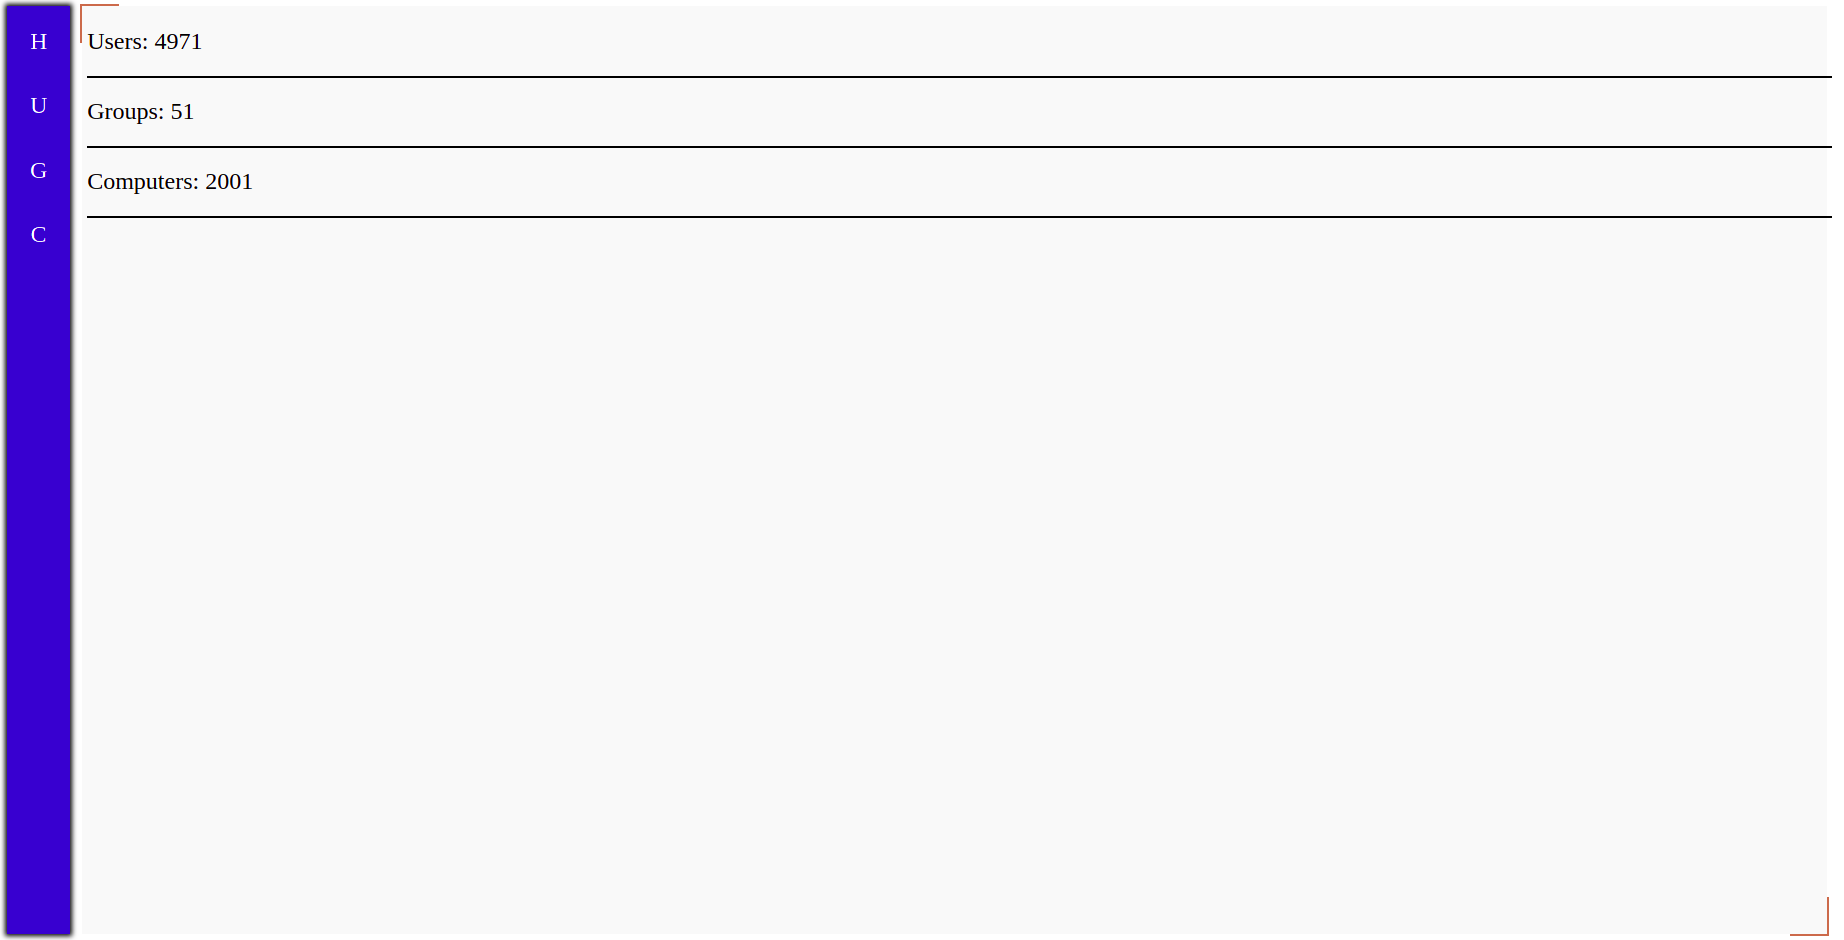
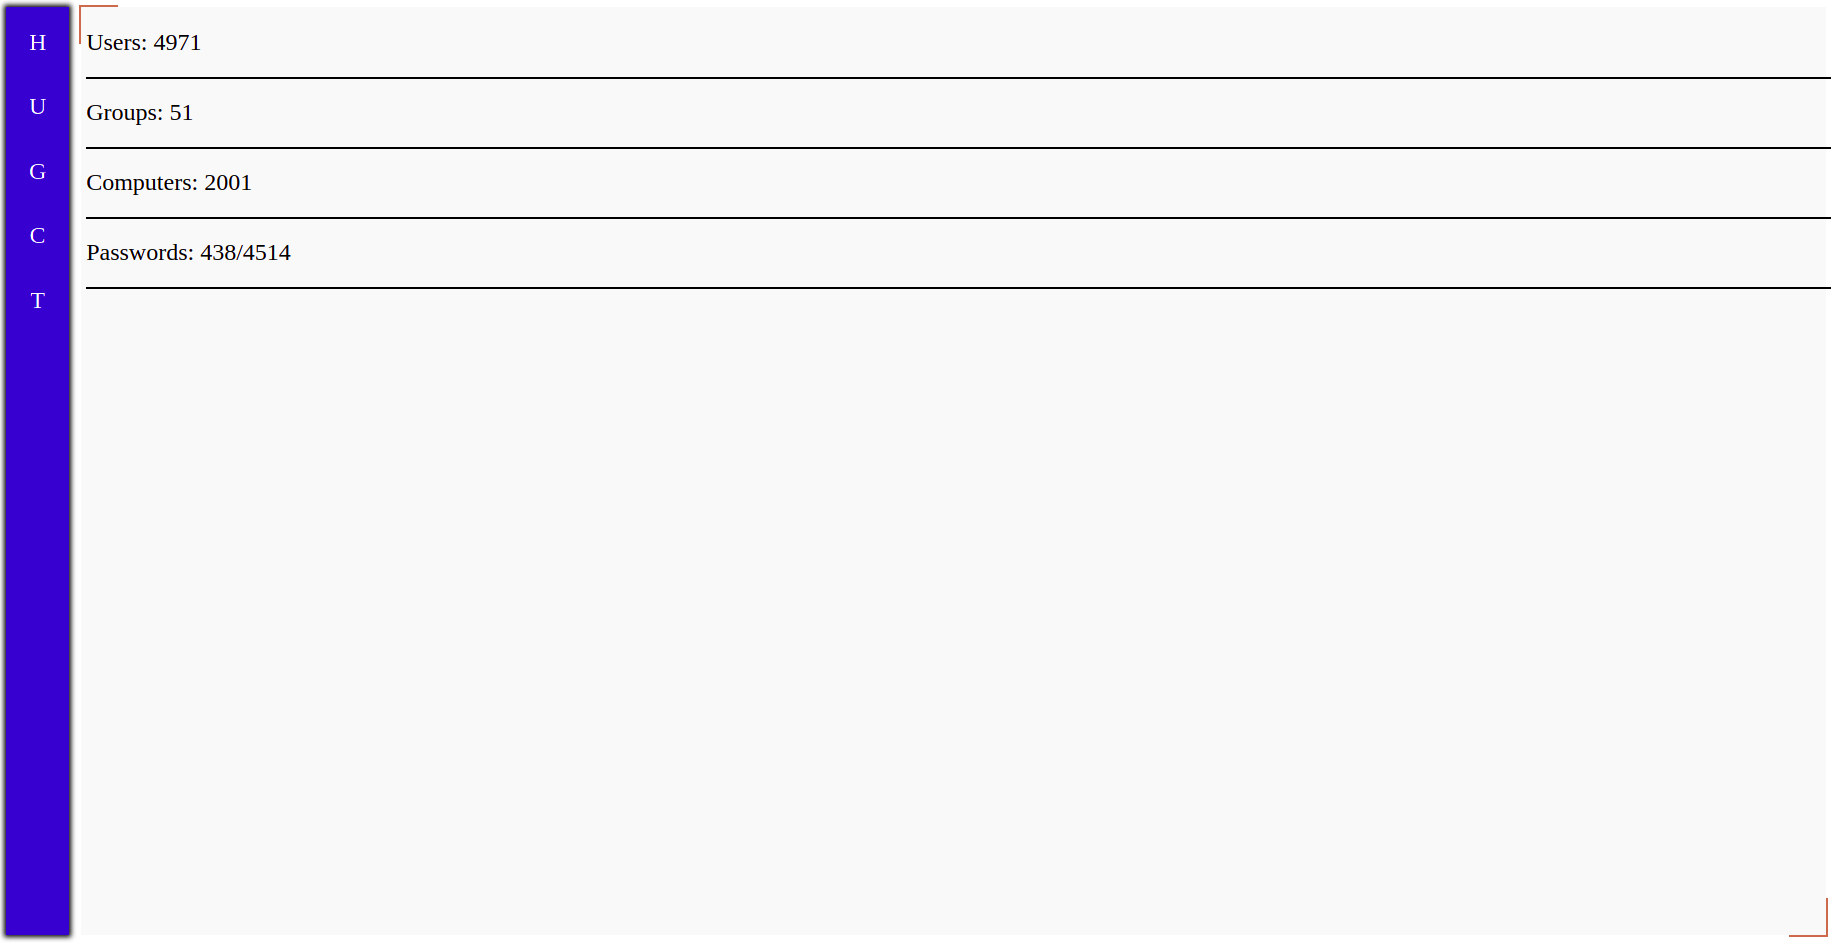
Tools page appended (ability to update the hash table)

diff --git a/ADContentViewer.py b/ADContentViewer.py
@@ -23,7 +23,8 @@ MainPageStart = """<html><head>
 <input type="submit" name="action" value="H" style=" background-color: Transparent;background-repeat:no-repeat;border: none;cursor:pointer;overflow: hidden;outline:none;height: 7%;width: 100%;color: white;font-size: x-large;font-family: cursive;font-style: normal;"/>
 <input type="submit" name="action" value="U" style=" background-color: Transparent;background-repeat:no-repeat;border: none;cursor:pointer;overflow: hidden;outline:none;height: 7%;width: 100%;color: white;font-size: x-large;font-family: cursive;font-style: normal;"/>
 <input type="submit" name="action" value="G" style=" background-color: Transparent;background-repeat:no-repeat;border: none;cursor:pointer;overflow: hidden;outline:none;height: 7%;width: 100%;color: white;font-size: x-large;font-family: cursive;font-style: normal;"/>
-<input type="submit" name="action" value="C" style=" background-color: Transparent;background-repeat:no-repeat;border: none;cursor:pointer;overflow: hidden;outline:none;height: 7%;width: 100%;color: white;font-size: x-large;font-family: cursive;font-style: normal;"	/>
+<input type="submit" name="action" value="C" style=" background-color: Transparent;background-repeat:no-repeat;border: none;cursor:pointer;overflow: hidden;outline:none;height: 7%;width: 100%;color: white;font-size: x-large;font-family: cursive;font-style: normal;"/>
+<input type="submit" name="action" value="T" style=" background-color: Transparent;background-repeat:no-repeat;border: none;cursor:pointer;overflow: hidden;outline:none;height: 7%;width: 100%;color: white;font-size: x-large;font-family: cursive;font-style: normal;"/>
 </form>
 </div >
 <div style="float: left;
@@ -82,6 +83,33 @@ SearchPanel = """method="get" style="margin: 15px;">
     padding: .8em 1em calc(.8em + 3px);
     border-radius: 21px;"/></form>"""
 
+UpdateHashPanel = """<div style="width: fit-content;
+    border: 2px solid mediumblue;
+    margin: 10px;"><form action="tools" enctype="multipart/form-data" method="post">
+<label for="file-upload" style="    border: 2px solid black;
+    width: 200px;
+    height: 30px;
+    border-radius: 21px;
+    outline: none;
+    text-align: center;
+    display: block;
+    margin: 10px;
+    padding-top: 10;">Select hash file
+</label>
+<input id="file-upload" type="file" name="content" style="display:none;">
+<input type="hidden" name="action" value="update_hash"/>
+<input type="submit" value="Update" style="    border: 2px solid black;
+    width: 100px;
+    height: 5%;
+    margin-left: 55px;
+    color: black;
+    outline: none;
+    background-color: white;
+    text-decoration: none;
+    padding: .8em 1em calc(.8em + 3px);
+    border-radius: 21px;
+}">
+</form></div>"""
 UserAccountControl = {"SCRIPT":1,
 "ACCOUNTDISABLE":2,
 "HOMEDIR_REQUIRED":8,
@@ -115,9 +143,52 @@ class Web(tornado.web.RequestHandler):
 			self.ObjDb = sqlite3.connect(Settings["db_name"])
 			self.ObjCursor = self.ObjDb.cursor()
 
+	def post(self):
+		if(self.request.uri[:6] == "/tools"):
+			WritePage = MainPageStart
+			AllInputArg = self.request.arguments
+			if("action" in AllInputArg.keys()):
+				if("update_hash" == self.get_argument("action")):
+					HashUpdateFiles = self.request.files
+					Out = {"update":0,"add":0}
+					if("content" in HashUpdateFiles.keys()):
+						try:
+							HashStr = HashUpdateFiles["content"][0]["body"].decode("utf-8").replace("\n"," ")
+							PwdData = re.findall(r"([^: ]*):[^:]*:([^:]*):([^:]*):\S*:\S*:(\S*)",HashStr)
+						except:
+							PwdData = re.findall(r"([^\n\r:]*):[^:]*:([^:]*):([^:]*):\S*:\S*:(\S*)",HashUpdateFiles["content"][0]["body"].decode("UTF-16LE")[1:])
+						if(len(PwdData) == 0):
+							try:
+								HashStr = HashUpdateFiles["content"][0]["body"].decode("utf-8").replace("\n"," ")
+								HashcatFormat = re.findall(r"([^: ]*):(\S*)",HashStr)
+							except:
+								HashcatFormat = re.findall(r"([^\n\r:]*):(\S*)",HashUpdateFiles["content"][0]["body"].decode("UTF-16LE")[1:])
+							if(len(HashcatFormat) != 0):
+								for CurretHash in HashcatFormat:
+									self.ObjCursor.execute("""UPDATE pwd SET pass='{1}' WHERE NT='{0}'""".format(CurretHash[0],CurretHash[1]))
+								self.ObjDb.commit()
+								WritePage = WritePage + """<div style="margin:10px;">Filename: {0}<br>Format: NT:pass<br>{1} hash updated<br><div>""".format(HashUpdateFiles["content"][0]["filename"],len(HashcatFormat))
+						else:
+							for CurretPwd in PwdData:
+								SelectPwd = self.ObjCursor.execute("""SELECT * FROM pwd WHERE sAMAccountName='{0}'""".format(CurretPwd[0]))
+								CheckPwd = SelectPwd.fetchone()
+								if(CheckPwd == None):
+									self.ObjCursor.execute("""INSERT INTO pwd VALUES ('{0}','{1}','{2}','{3}')""".format(CurretPwd[0],CurretPwd[1],CurretPwd[2],CurretPwd[3]))
+									Out["add"] += 1
+								else:
+									self.ObjCursor.execute("""UPDATE pwd SET LM='{1}',NT='{2}',pass='{3}' WHERE sAMAccountName='{0}'""".format(CurretPwd[0],CurretPwd[1],CurretPwd[2],CurretPwd[3]))
+									Out["update"] += 1
+							self.ObjDb.commit()
+							WritePage = WritePage + """<div style="margin:10px;">Filename: {0}<br>Format: pwd<br>{1} hash added<br>{2} hash updated<br><div>""".format(HashUpdateFiles["content"][0]["filename"],Out["add"],Out["update"])
+			self.write(WritePage+MainPageEnd)
+
 	def get(self):
 		if(self.request.uri == "/"):
 			self.redirect("/home")
+		elif(self.request.uri[:6] == "/tools"):
+			WritePage = MainPageStart
+			WritePage = WritePage + UpdateHashPanel
+			self.write(WritePage+"""</div>"""+MainPageEnd)
 		elif(self.request.uri[:6] == "/users" or self.request.uri[:10] == "/computers" or self.request.uri[:7] == "/groups"):
 			AllInputArg = self.request.arguments
 			if(self.request.uri[:6] == "/users"):
@@ -252,6 +323,11 @@ class Web(tornado.web.RequestHandler):
 			CountPC = self.ObjCursor.execute("""SELECT count(*) FROM computers""")
 			CountPCValue = CountUser.fetchone()
 			WritePage = WritePage + HomePage + "Computers:    {0}</div>".format(CountPCValue[0])
+			CountHash = self.ObjCursor.execute("""SELECT count(*) FROM pwd""")
+			CountHashValue = CountHash.fetchone()
+			CountPass = self.ObjCursor.execute("""SELECT count(*) FROM pwd WHERE pass!=''""")
+			CountPassValue = CountHash.fetchone()
+			WritePage = WritePage + HomePage + "Passwords:    {0}/{1}</div>".format(CountPassValue[0],CountHashValue[0])
 			self.write(WritePage+MainPageEnd)
 		elif(self.request.uri[:8] == "/request"):
 			AllInputArg = self.request.arguments
@@ -259,6 +335,8 @@ class Web(tornado.web.RequestHandler):
 				GetArgAction = self.get_argument("action")
 				if(GetArgAction == "H"):
 					self.redirect("/home")
+				elif(GetArgAction == "T"):
+					self.redirect("/tools")
 				elif(GetArgAction == "U"):
 					self.redirect("/users?offset=0&count={0}".format(self.Settings["obj_count_page"]))
 				elif(GetArgAction == "C"):
@@ -311,7 +389,22 @@ class Reader(object):
 			self.ObjDb = sqlite3.connect(Settings["db_name"])
 			self.ObjCursor = self.ObjDb.cursor()
 
+# sAMAccountType:
+#	- SAM_DOMAIN_OBJECT 0x0
+#	- SAM_GROUP_OBJECT 0x10000000
+#	- SAM_NON_SECURITY_GROUP_OBJECT 0x10000001
+#	- SAM_ALIAS_OBJECT 0x20000000
+#	- SAM_NON_SECURITY_ALIAS_OBJECT 0x20000001
+#	- SAM_USER_OBJECT 0x30000000
+#	- SAM_NORMAL_USER_ACCOUNT 0x30000000
+#	- SAM_MACHINE_ACCOUNT 0x30000001
+#	- SAM_TRUST_ACCOUNT 0x30000002
+#	- SAM_APP_BASIC_GROUP 0x40000000
+#	- SAM_APP_QUERY_GROUP 0x40000001
+#	- SAM_ACCOUNT_TYPE_MAX 0x7fffffff
+
 	def AddObjectDB(self,ADObject):
+		#print(ADObject)
 		descriptionValue = ""
 		if("description" in ADObject.keys()):
 			descriptionValue = ADObject["description"]
@@ -455,6 +548,7 @@ if __name__ == "__main__":
 		(r"/users", Web,dict(Settings=Settings)),
 		(r"/groups", Web,dict(Settings=Settings)),
 		(r"/computers", Web,dict(Settings=Settings)),
+		(r"/tools", Web,dict(Settings=Settings)),
 		])
 	print("> go http://127.0.0.1:16600/")
 	application.listen(16600)

diff --git a/README.md b/README.md
@@ -39,3 +39,11 @@ Groups page.
 Info object page.
 
 ![Alt text](/image/user_info.png?raw=true "Info object page")
+
+Tools page.
+
+Two formats are used to update hashes:
+- pwd
+- NT:password (output hashcat)
+
+![Alt text](/image/tools.png?raw=true "Tools page")
